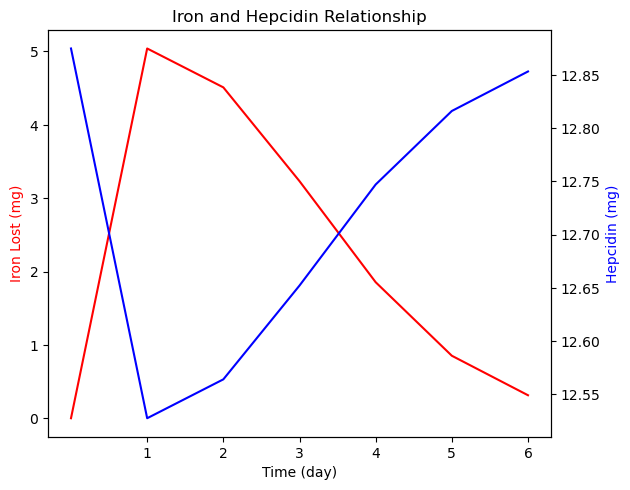
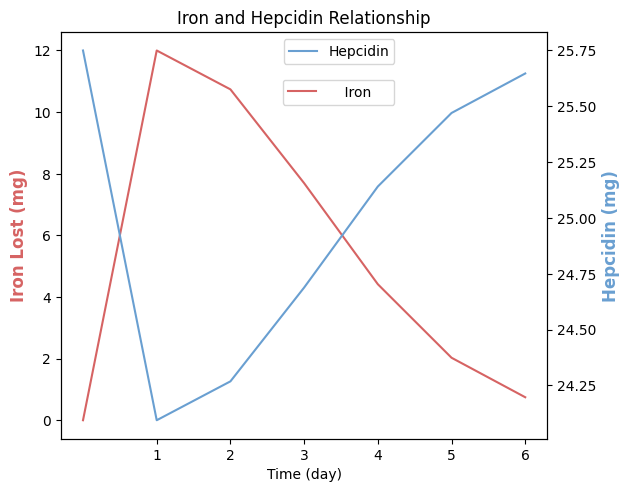
pretty graphs

diff --git a/graphing.py b/graphing.py
@@ -5,6 +5,16 @@ import matplotlib.patches as patches
 import numpy as np
 
 #~~~~~~~~ GRAPHS ~~~~~~~~~~#
+mypink = "#d66363"
+myblue = "#699fd1"
+#total iron in blood over time (6 days)
+plt.plot(e.time, [100,          43.75452695,  43.97870521,  44.5194474,   45.10206183, 45.52599844,  45.75374978], label='diseased case', color=mypink)
+plt.plot(e.time, e.ironStor, label='normal case', color=myblue)
+plt.xlabel("time (days)")
+plt.ylabel("iron in storage (mg)")
+plt.legend()
+plt.savefig("iron in storage both")
+plt.close()
 
 #time vs accIron, accEstrogen, hepcidin in storage
 plt.plot(e.time, e.ironStor, label='iron')
@@ -14,129 +24,86 @@ plt.xlabel("time (days)")
 plt.ylabel("Stored (mg)")
 plt.legend()
 plt.savefig("storage")
-plt.show()
+#plt.show()
 plt.close()
 
-#time vs accIron, accEstrogen, hepcidin in storage
-fig, (ax1, ax2, ax3) = plt.subplots(3, figsize=(6, 8))
-ax1.set_xlabel('Time (day)')
-ax1.set_ylabel('Iron in Storage (mg)')
-ax1.plot(e.time, e.ironStor)
-ax1.tick_params(axis='y', labelcolor='black')
-ax1.set_xticks(range(0, 7))  # Set tick positions
-ax1.set_xticklabels(['0','1', '2', '3', '4', '5', '6'])  # Set tick labels
-
-ax2.set_xlabel('Time (day)')
-ax2.set_ylabel('Estrogen in Reproductive System (mg)')
-ax2.plot(e.time, e.est, color = 'orange')
-ax2.tick_params(axis='y', labelcolor='black')
-ax2.set_xticks(range(0, 7))  # Set tick positions
-ax2.set_xticklabels(['0', '1', '2', '3', '4', '5', '6'])
-
-
-ax3.set_xlabel('Time (day)')
-ax3.set_ylabel('Hepcidin in Storage (mg)')
-ax3.plot(e.time, e.hep, color='green')  # Remove the negative sign
-#ax3.tick_params(axis='y', labelcolor='black')
-ax3.set_xticks(range(0, 7))
-ax3.tick_params(axis='y', labelcolor='black')
-ax3.set_xticklabels(['0', '1', '2', '3', '4', '5', '6'])
-#ax3.set_ylim(max(e.hep), min(e.hep))  # Reverse the order of limits
-#ax3.set_yticklabels([abs(tick) for tick in ax3.get_yticks()])
-fig.tight_layout()
-plt.savefig("EstHepIron.png", bbox_inches="tight")  # Ensure file extension
-plt.show()  # Display the figure
-
 #estrogen vs hepcidin linear
-plt.plot(e.est, -0.891*e.est+e.hep[0])
+plt.plot(e.est, -0.891*e.est+e.hep[0], color=myblue)
 plt.xlabel("Estrogen Present (mg)")
-plt.ylabel("Change in Hepcidin (mg)")
+plt.ylabel("Hepcidin (mg)")
 plt.title("Estimated Relationship of Estrogen and Hepcidin")
 plt.savefig("estHepLine")
-plt.show()
+#plt.show()
+plt.close()
 
 #Estrogen and Hepcidin Relationship
 fig, ax1 = plt.subplots()
-color = 'red'
+color = mypink
 ax1.set_xlabel('Time (day)')
-ax1.set_ylabel('Estrogen (mg)', color=color)
-ax1.plot(e.time, e.est, color=color)
+ax1.set_ylabel('Estrogen (mg)', color=color, fontweight="bold", fontsize='large')
+ax1.plot(e.time, e.est, color=color, label="Estrogen")
+plt.legend(bbox_to_anchor=(.3,.45))
 ax1.tick_params(axis='y', labelcolor='black')
 ax2 = ax1.twinx()  
-color = 'blue'
-ax2.set_ylabel('Change in Hepcidin (mg)', color=color)  
-ax2.plot(e.time, -.891*e.est+e.hep[0], color=color)
+color = myblue
+ax2.set_ylabel('Hepcidin (mg)', color=color,fontweight="bold", fontsize='large')  
+ax2.plot(e.time, -.891*e.est+e.hep[0], color=color, label="Hepcidin")
+plt.legend(bbox_to_anchor=(0.3, 0.55))
 ax2.tick_params(axis='y', labelcolor='black')
 fig.tight_layout()  
 plt.xticks([1,2,3,4,5,6])
 plt.title("Estrogen and Hepcidin Relationship")
 plt.savefig("estHep", bbox_inches="tight")
-plt.show()
+#plt.show()
+plt.close()
 
-if c.anem == False:
-#iron and hepcidin relationship
-    fig, ax1 = plt.subplots()
-    color = 'red'
-    ax1.set_xlabel('Time (day)')
-    ax1.set_ylabel('Iron Lost (mg)', color=color)
-    ax1.plot(e.time, 0.42*e.blossrate, color=color)
-    ax1.tick_params(axis='y', labelcolor='black')
-    ax2 = ax1.twinx()  
-    color = 'blue'
-    ax2.set_ylabel('Hepcidin (mg)', color=color)  
-    ax2.plot(e.time, -0.138*(0.42*e.blossrate) + 25.75, color=color)
-    ax2.tick_params(axis='y', labelcolor='black')
-    fig.tight_layout()  
-    plt.xticks([1,2,3,4,5,6])
-    plt.title("Iron and Hepcidin Relationship")
-    plt.savefig("ironHep", bbox_inches="tight")
-    plt.show()
+fig, ax1 = plt.subplots()
+color = mypink
+ax1.set_xlabel('Time (day)')
+ax1.set_ylabel('Iron Lost (mg)', color=color, fontweight='bold', fontsize='large')
+ax1.plot(e.time, e.blossrate, color=color, label="    Iron    ")
+ax1.tick_params(axis='y', labelcolor='black')
+plt.legend(bbox_to_anchor=(0.7,.9))
+ax2 = ax1.twinx()  
+color = myblue
+ax2.set_ylabel('Hepcidin (mg)', color=color, fontweight='bold', fontsize='large')  
+ax2.plot(e.time, c.hepIron*e.blossrate + 25.75, color=color, label = 'Hepcidin')
+ax2.tick_params(axis='y', labelcolor='black')
+plt.legend(bbox_to_anchor=(0.7,1))
+fig.tight_layout()  
+plt.xticks([1,2,3,4,5,6])
+plt.title("Iron and Hepcidin Relationship");
+plt.savefig('ironHep.png', bbox_inches='tight')
+#plt.show()
+plt.close()
 
-if c.anem == True:
-    fig, ax1 = plt.subplots()
-    color = 'red'
-    ax1.set_xlabel('Time (day)')
-    ax1.set_ylabel('Iron Lost (mg)', color=color)
-    ax1.plot(e.time, 0.42*e.blossrate, color=color)
-    ax1.tick_params(axis='y', labelcolor='black')
-    ax2 = ax1.twinx()  
-    color = 'blue'
-    ax2.set_ylabel('Hepcidin (mg)', color=color)  
-    ax2.plot(e.time, -0.138/2*(0.42*e.blossrate) + 25.75/2, color=color)
-    ax2.tick_params(axis='y', labelcolor='black')
-    fig.tight_layout()  
-    plt.xticks([1,2,3,4,5,6])
-    plt.title("Iron and Hepcidin Relationship")
-    plt.savefig("ironHep", bbox_inches="tight")
-    plt.show()
+#time vs iron, prog, estrogen in reproductive
 
-
-#total iron in blood over time (6 days)
-plt.plot(e.time, e.ironStor)
-plt.xlabel("time (days)")
-plt.ylabel("iron in storage (mg)")
-plt.savefig("totalIron")
-plt.show()
 
 #'''#hormone variation over menstrual cycle
 fig, ax1 = plt.subplots()
-color = 'purple'
+color = mypink
 ax1.set_xlabel('Time (day)')
-ax1.set_ylabel('Estrogen (pg/L)', color=color)
-ax1.plot(e.cycle, e.estgraph, color=color)
+ax1.set_ylabel('Estrogen (pg/L)', fontweight='bold', fontsize='large', color=color)
+ax1.plot(e.cycle, e.estgraph, color=color, label="Estrogen")
 ax1.tick_params(axis='y', labelcolor='black')
+plt.legend(loc='upper left', bbox_to_anchor=(0,.92), facecolor='white', framealpha=1.0)
 ax2 = ax1.twinx()  
-color = 'green'
-ax2.set_ylabel('Progesterone (μg/L)', color=color)  
-ax2.plot(e.cycle, e.prog, color=color)
+color = myblue
+ax2.set_ylabel('Progesterone (μg/L)', color=myblue, fontweight='bold', size='large')  
+ax2.plot(e.cycle, e.prog, color=color, label="Progesterone")
 ax2.tick_params(axis='y', labelcolor='black')
 fig.tight_layout()  
 plt.xticks([1,4,8,12,16,20,24,28])
-plt.axvspan(0, 6, facecolor='red', alpha=0.2)
-plt.text(.1,14, "Menstruation")
+plt.axvspan(0, 6, 0,.84,facecolor='red', alpha=0.2)
+#plt.axvspan(0,6, 135, 160, facecolor='white', alpha=1.0)
+plt.text(.1,14, "Menstruation");
 plt.title('Hormone Variation Over Cycle')
+plt.legend(loc='upper left', bbox_to_anchor=(0, 1), framealpha=0.9)
 plt.savefig("hormones.png", bbox_inches="tight")
-plt.show()
+plt.close()
+
+#plt.show()
 
 #blood loss over time during cycle
 fig, ax = plt.subplots(1)
@@ -149,7 +116,33 @@ plt.fill_between(e.time, e.blossrate, alpha=0.2, color='red')
 rect = patches.Rectangle((3.7, 11), .2, .4, linewidth=1, edgecolor='r', facecolor='red', alpha = .2)
 ax.add_patch(rect)
 plt.text(4,11,'Total Blood Lost = 35mL')
-plt.savefig("bloodloss.png")
-plt.show()
+#plt.savefig("bloodloss.png")
+#plt.show()
+plt.close()
+
+#time vs accIron, hepcidin in storage
+#vertical arrangement:
+# fig, (ax1, ax2) = plt.subplots(2, figsize=(6, 8))
+#horizontal arrangement:
+fig, (ax1, ax2) = plt.subplots(1, 2, figsize=(8, 3))
+ax1.set_xlabel('Time (day)')
+ax1.set_ylabel('Iron in Storage (mg)')
+ax1.plot(e.time, e.ironStor, color=myblue)
+ax1.tick_params(axis='y', labelcolor='black')
+ax1.set_xticks(range(0, 7))  # Set tick positions
+ax1.set_xticklabels(['0','1', '2', '3', '4', '5', '6'])  # Set tick labels
+ax2.set_xlabel('Time (day)')
+ax2.set_ylabel('Hepcidin in Storage (mg)')
+ax2.plot(e.time, e.hep, color=mypink)  # Remove the negative sign
+#ax3.tick_params(axis='y', labelcolor='black')
+ax2.set_xticks(range(0, 7))
+ax2.tick_params(axis='y', labelcolor='black')
+ax2.set_xticklabels(['0', '1', '2', '3', '4', '5', '6'])
+#ax3.set_ylim(max(e.hep), min(e.hep))  # Reverse the order of limits
+#ax3.set_yticklabels([abs(tick) for tick in ax3.get_yticks()])
+fig.tight_layout()
+plt.savefig("EstHepIron.png", bbox_inches="tight")  # Ensure file extension
+plt.close()  # Display the figure
+
 
 

diff --git a/equations.py b/equations.py
@@ -47,10 +47,8 @@ for i in range(cycle.size) :
         estgraph[i] = -220*(cycle[i]-14)*np.e**(.8*(cycle[i]-14)) + 50
     elif cycle[i]>14 and cycle[i]<=20 :
         estgraph[i] = 2.5*(cycle[i]-16)**2 + 50
-    elif cycle[i]<27.7 :
-        estgraph[i] = -2.3*(cycle[i]-22.7)**2 + 108
     else :
-        estgraph[i] = estgraph[0]
+        estgraph[i] = 58*np.e**((-1/7)*(cycle[i]-21.5)**2) +50
 
 #estrogen just during menstruation - also converts est from pg/L to mg/dL
 for i in range(time.size) :
@@ -58,7 +56,7 @@ for i in range(time.size) :
 
 #progesterone: .5 ug/L base amt, peaks (21 days, 20 ug/L)
 for i in range(cycle.size) :
-    prog[i] = 20*np.e**(-((cycle[i]-21)/4)**2)
+    prog[i] = 20*np.e**(-((cycle[i]-20.8)/3)**2)
 
 
 #~~~~~~~~~~ mass balance equations ~~~~~~~~~#

diff --git a/initial_numbers.py b/initial_numbers.py
@@ -3,7 +3,7 @@
 
 
 #boolean controls which state we are in.
-anem = True
+anem = False
 
 z = 1 #placeholder
 c = 1 #placeholder to signal a value that changes based on day in the cycle
@@ -35,7 +35,7 @@ m5hemo = 0.85*(m2iron + m2hemo) #mg/day
 m10iron = m3iron #mg/day
 m6hemo = c #calculated like the base value is, but m9hemo changes per day (actual calculations are in equations.py)
 m7hemo = c #mg/day
-m8hemo = 1958400 #mg/day
+m8hemo = 20160000 #mg/day
 m9hemo = c #calculated like the base value is, but m6hemo changes per day
 conIron = 25 #mg/day
 genIron = c #changes to accommmodate the fluctuations in accumulation in storage
